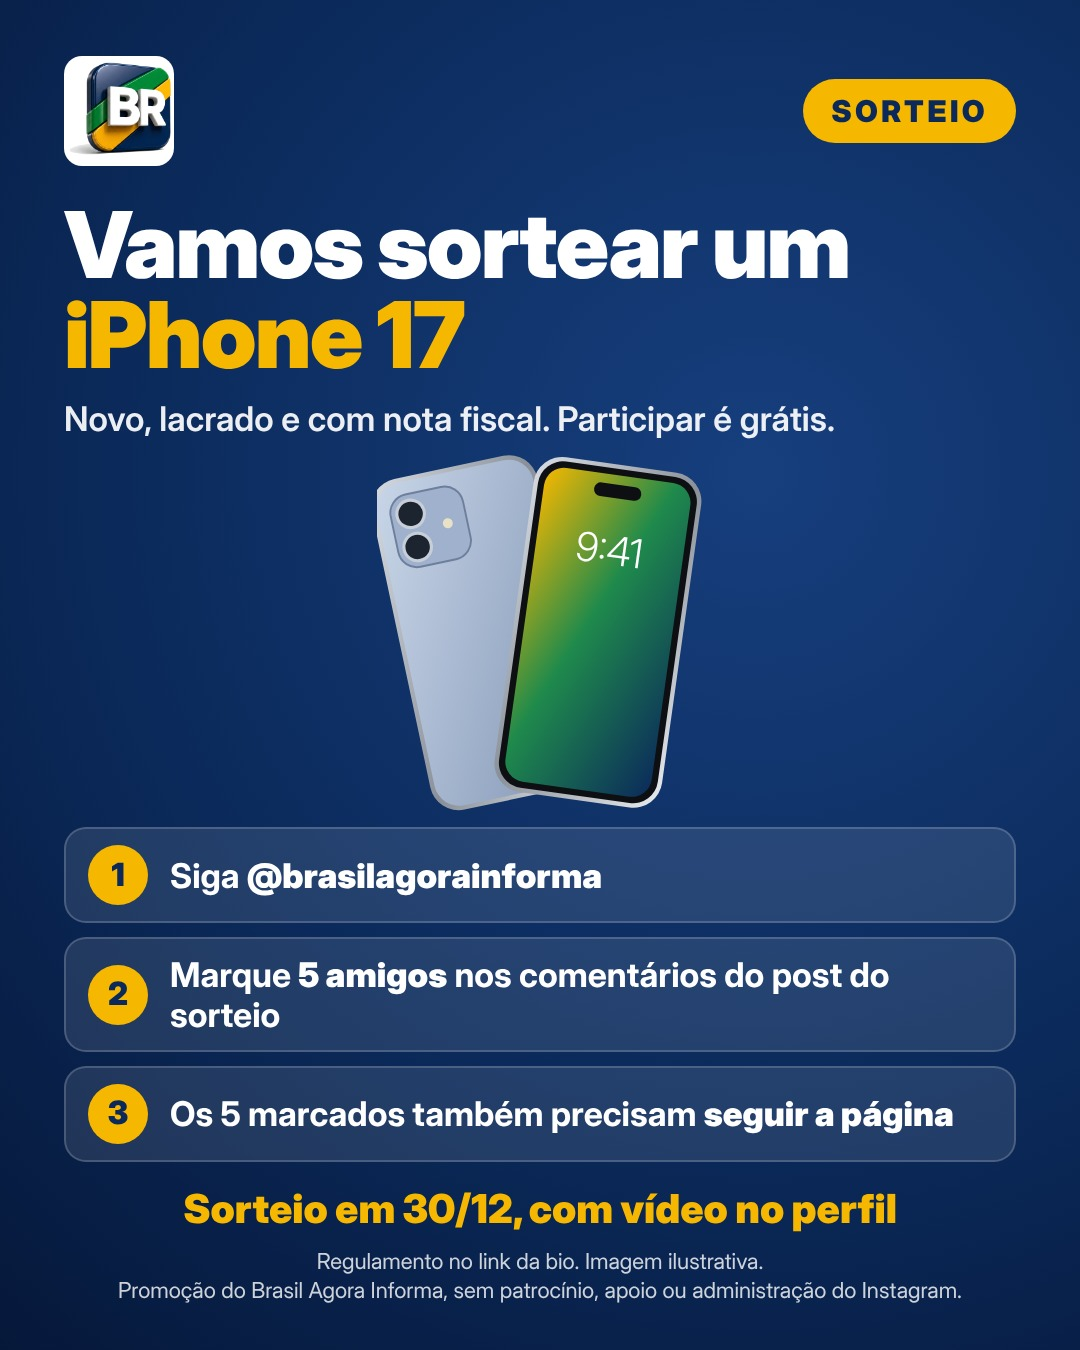
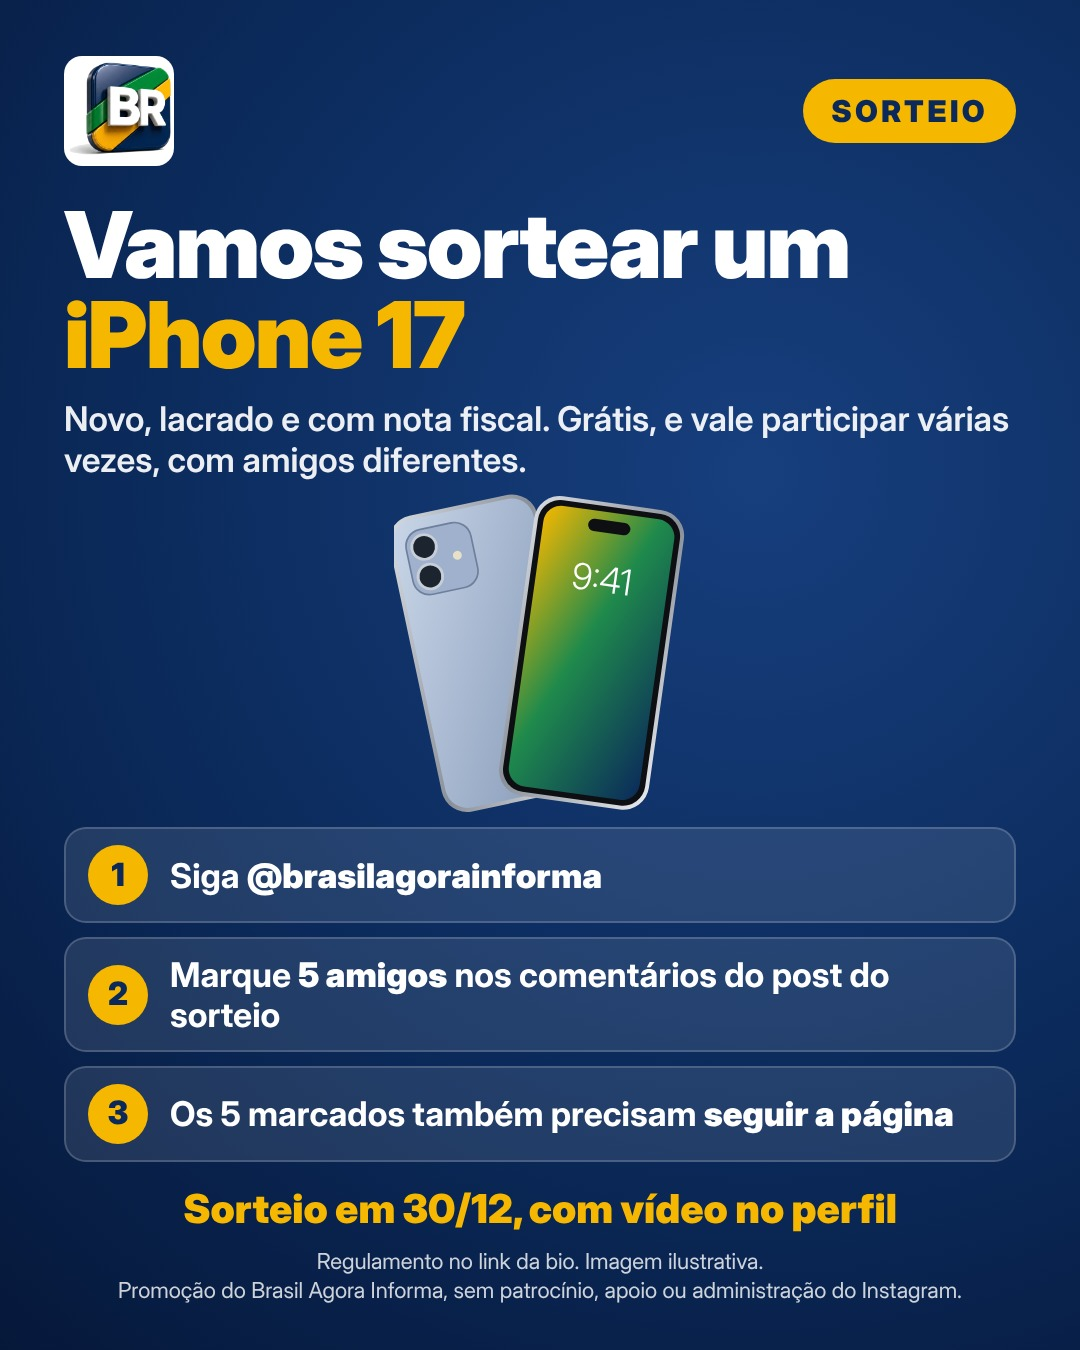
Sorteio: vale participar várias vezes com amigos diferentes
Claude-Session: https://claude.ai/code/session_0182ehLtReBftEm9wBhAEYUi

Changed region(s): [[0.0611, 0.28, 0.825, 0.6222], [0.8556, 0.28, 0.9167, 0.3422]]

diff --git a/sorteio.html b/sorteio.html
@@ -43,10 +43,10 @@
           <li><b>Período:</b> de 28 de novembro de 2026 até 29 de dezembro de 2026, às 23h59 (horário de Brasília).</li>
           <li><b>Quem pode participar:</b> pessoas com 18 anos ou mais, que morem no Brasil e tenham perfil no Instagram. Participar é grátis: não é preciso comprar nada.</li>
           <li><b>Como participar:</b> (1) seguir o perfil @brasilagorainforma; (2) comentar no post oficial do sorteio (fixado no perfil) marcando 5 perfis reais de amigos; (3) os 5 perfis marcados também precisam seguir @brasilagorainforma até o dia do sorteio.</li>
-          <li><b>Uma participação por pessoa.</b> Comentar mais de uma vez não aumenta a chance. Não valem perfis falsos, perfis de marcas, perfis criados só para o sorteio nem a mesma pessoa marcada várias vezes no mesmo comentário.</li>
+          <li><b>Pode participar várias vezes:</b> a mesma pessoa pode comentar quantas vezes quiser. Cada comentário vale uma participação, desde que marque 5 perfis diferentes dos marcados nos outros comentários dela, e que esses perfis também sigam @brasilagorainforma. Não valem perfis falsos, perfis de marcas, perfis criados só para o sorteio nem a mesma pessoa marcada mais de uma vez.</li>
           <li><b>Prêmio:</b> 1 (um) iPhone 17, modelo de entrada, novo, lacrado e com nota fiscal. O prêmio não pode ser trocado por dinheiro.</li>
-          <li><b>Sorteio:</b> em 30 de dezembro de 2026. A lista numerada dos participantes válidos é montada ao fim do prazo, e o número vencedor é sorteado no site público random.org. Todo o sorteio e a conferência são gravados em vídeo e publicados no perfil no mesmo dia.</li>
-          <li><b>Conferência:</b> o sorteado precisa cumprir todas as regras no momento do sorteio (seguir o perfil, comentário válido e os 5 marcados seguindo). Se faltar alguma, um novo número é sorteado, também na gravação.</li>
+          <li><b>Sorteio:</b> em 30 de dezembro de 2026. A lista numerada dos comentários válidos é montada ao fim do prazo, e o número vencedor é sorteado no site público random.org. Todo o sorteio e a conferência são gravados em vídeo e publicados no perfil no mesmo dia.</li>
+          <li><b>Conferência:</b> o autor do comentário sorteado precisa cumprir todas as regras no momento do sorteio (seguir o perfil, comentário válido e os 5 marcados nele seguindo). Se faltar alguma, um novo número é sorteado, também na gravação.</li>
           <li><b>Aviso ao vencedor:</b> pela mensagem direta do @brasilagorainforma. O vencedor tem 24 horas para responder; sem resposta, um novo número é sorteado. Nunca pedimos senha, código, pagamento, Pix ou dados bancários. Desconfie de perfis parecidos com o nosso.</li>
           <li><b>Entrega:</b> o iPhone é enviado até 31 de dezembro de 2026 por transportadora ou Correios, com código de rastreio e sem custo para o vencedor. O prazo de chegada depende do endereço.</li>
           <li><b>Dados pessoais:</b> nome, documento e endereço do vencedor são usados só para conferir a idade e entregar o prêmio, conforme a Lei Geral de Proteção de Dados. O nome do perfil do vencedor é divulgado no resultado.</li>
